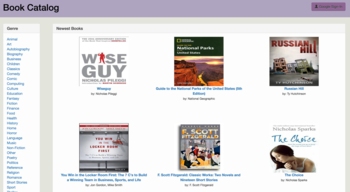
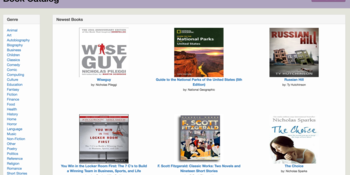
fix: image dimensions

diff --git a/gulpfile.js b/gulpfile.js
@@ -3,19 +3,23 @@
 var gulp = require('gulp');
 var imageResize = require('gulp-image-resize');
 var rename = require('gulp-rename');
+var resizeMyPhotoTask = 'resizeMyPhotoTask';
 
 // Code inspired by http://stackoverflow.com/questions/35801807/gulp-image-resize-to-generate-multiple-output-sizes
 var resizeImageTasks = [];
 [300, 350].forEach(function(size) {
   var resizeImageTask = 'resize_' + size;
-
+  
   gulp.task(resizeImageTask, function() {
     return gulp.src('img_src/*.png')
       .pipe(imageResize({
-          imageMagick: true,
-          width: size
-        })
-      ).pipe(rename(function (path) {
+        imageMagick: true,
+        width: size
+      })).pipe(imageResize({
+        imageMagick: true,
+        crop: true,
+        height: size/2
+      })).pipe(rename(function (path) {
           path.basename += ("-" + size);
         }
       )).pipe(
@@ -24,5 +28,24 @@ var resizeImageTasks = [];
   });
   resizeImageTasks.push(resizeImageTask);
 });
+//
+// [300, 600].forEach(function(size) {
+//   resizeImageTask = 'resize_me_photo_' + size;
+//
+//   gulp.task(resizeImageTask, function() {
+//     return gulp.src('img_src/me.jpg')
+//       .pipe(imageResize({
+//           imageMagick: true,
+//           width: size
+//         })
+//       ).pipe(rename(function (path) {
+//           path.basename += ("-" + size);
+//         }
+//       )).pipe(
+//         gulp.dest('portfolio/img')
+//       );
+//   });
+//   resizeImageTasks.push(resizeImageTask);
+// });
 
 gulp.task('default', resizeImageTasks);
